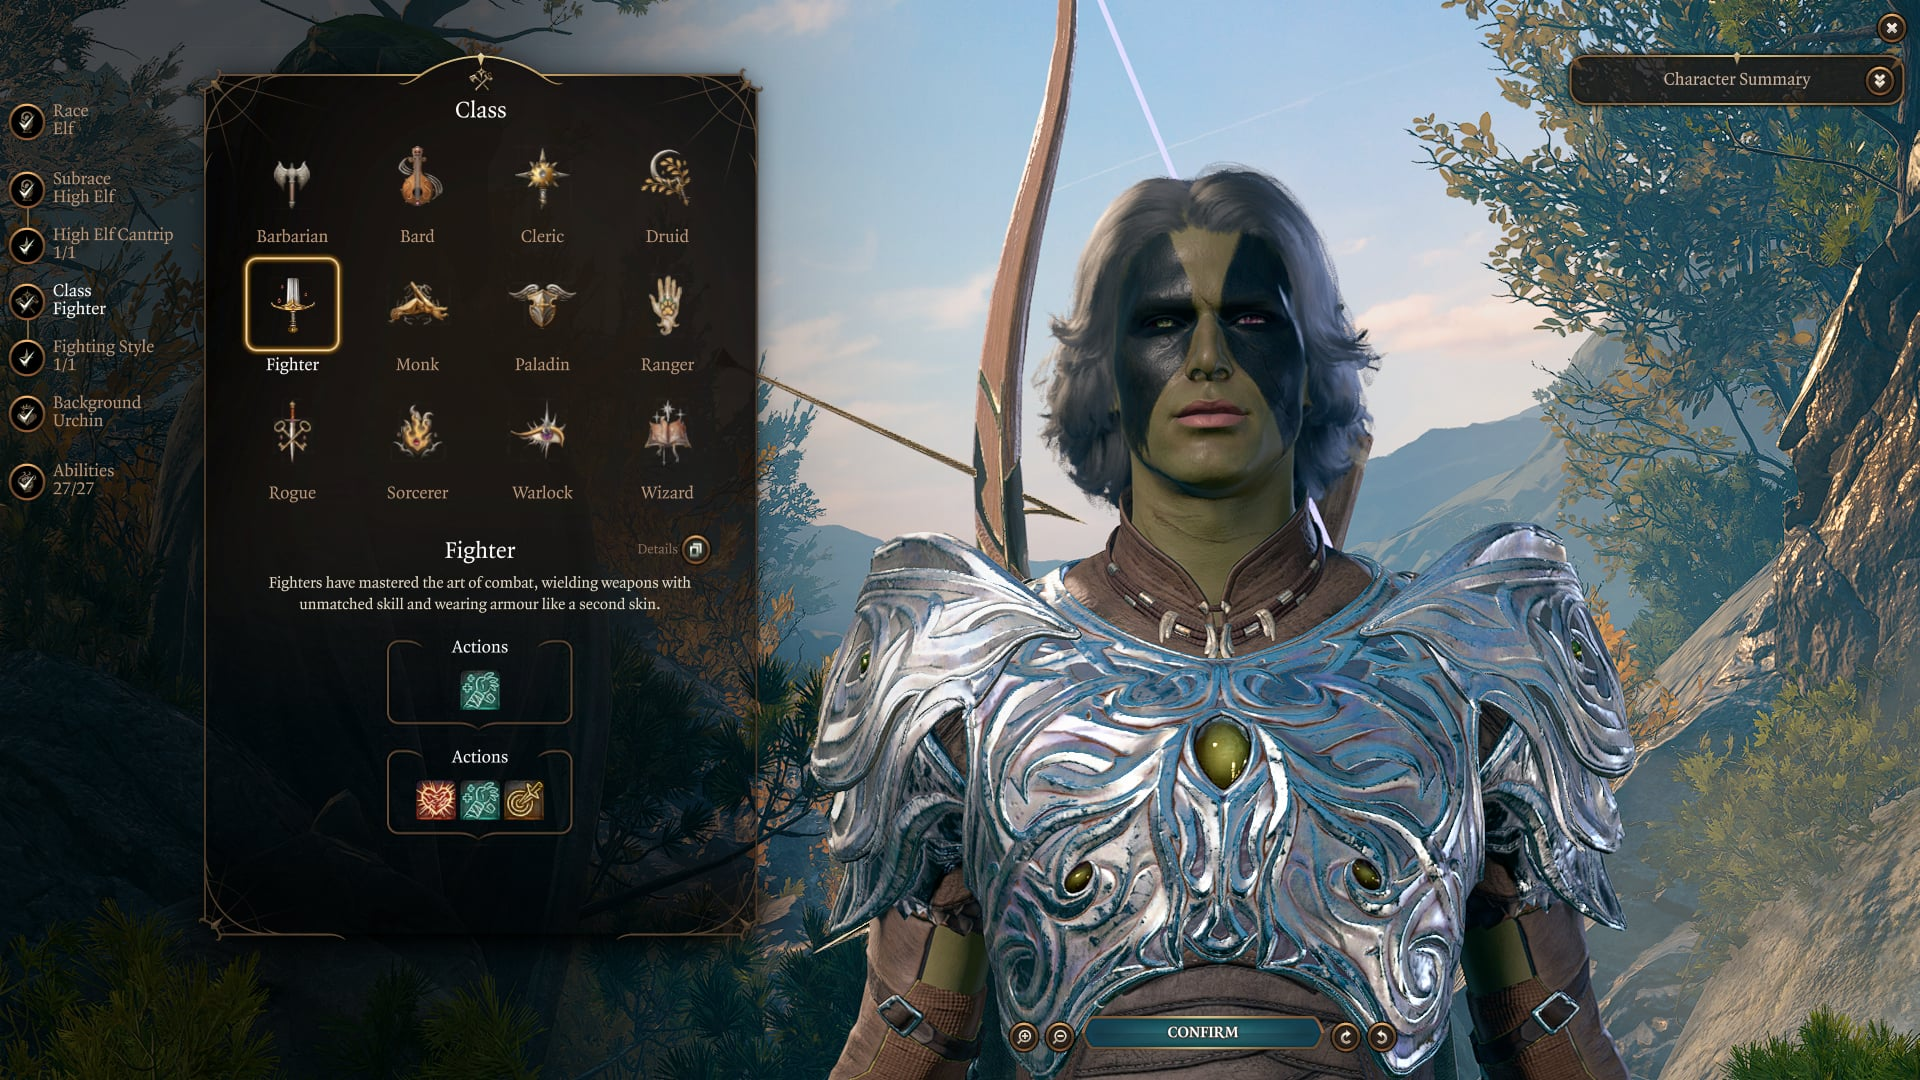
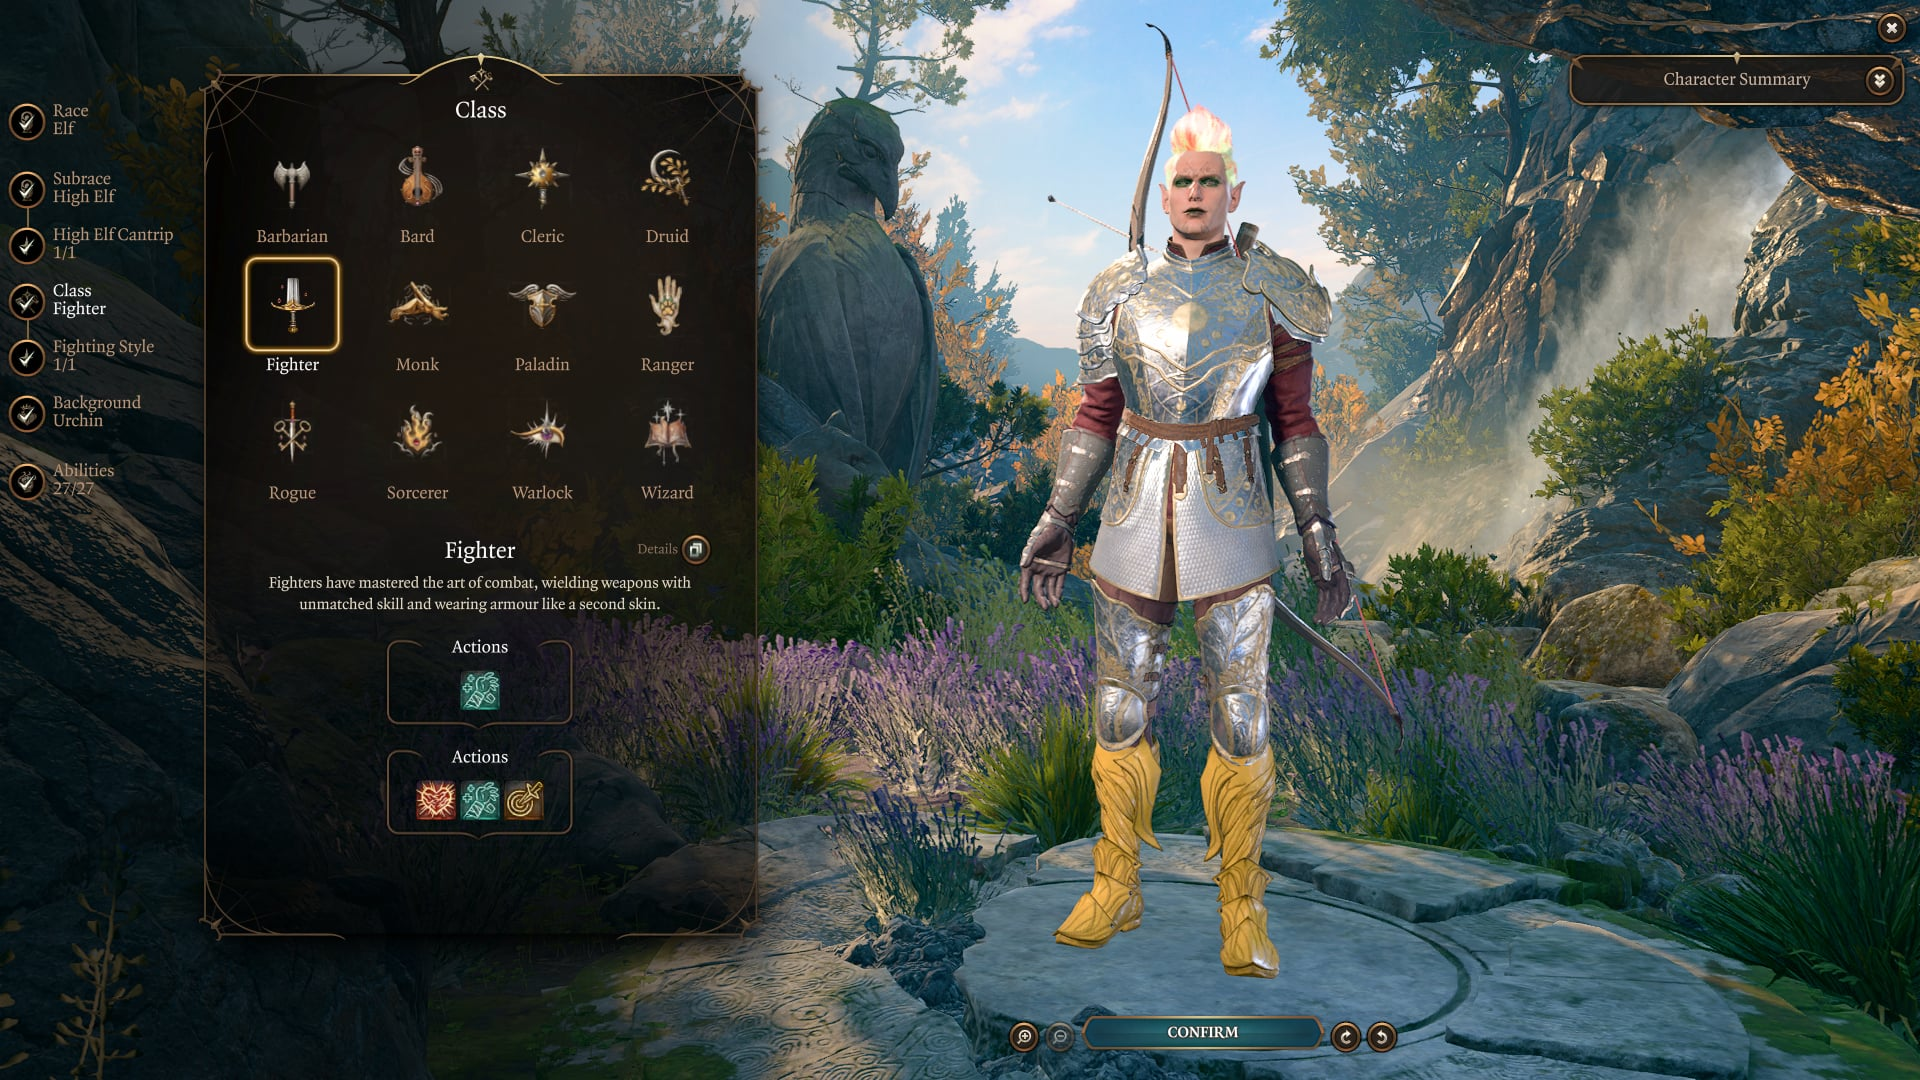
曹角色外貌更新：白皙皮膚＋火焰橘色莫西干（02版）

diff --git a/gen_roast_images.py b/gen_roast_images.py
@@ -56,9 +56,8 @@ CHAR_VISUAL = {
         "heavy armor, wielding a greataxe, fierce grin"
     ),
     "曹":     (
-        "a High Elf Fighter archer: olive-green skin, medium-length dark hair, "
-        "dark facial markings around the eyes, silver ornate plate armor, longbow on back, "
-        "serious expression"
+        "a High Elf Fighter archer: fair/pale skin, bright flame-orange upward mohawk hair, "
+        "silver and gold ornate plate armor, longbow on back, confident expression"
     ),
     "貓咕咕":  (
         "an Asmodeus Tiefling Sorcerer woman: fair skin, large curved dark-grey horns, "
